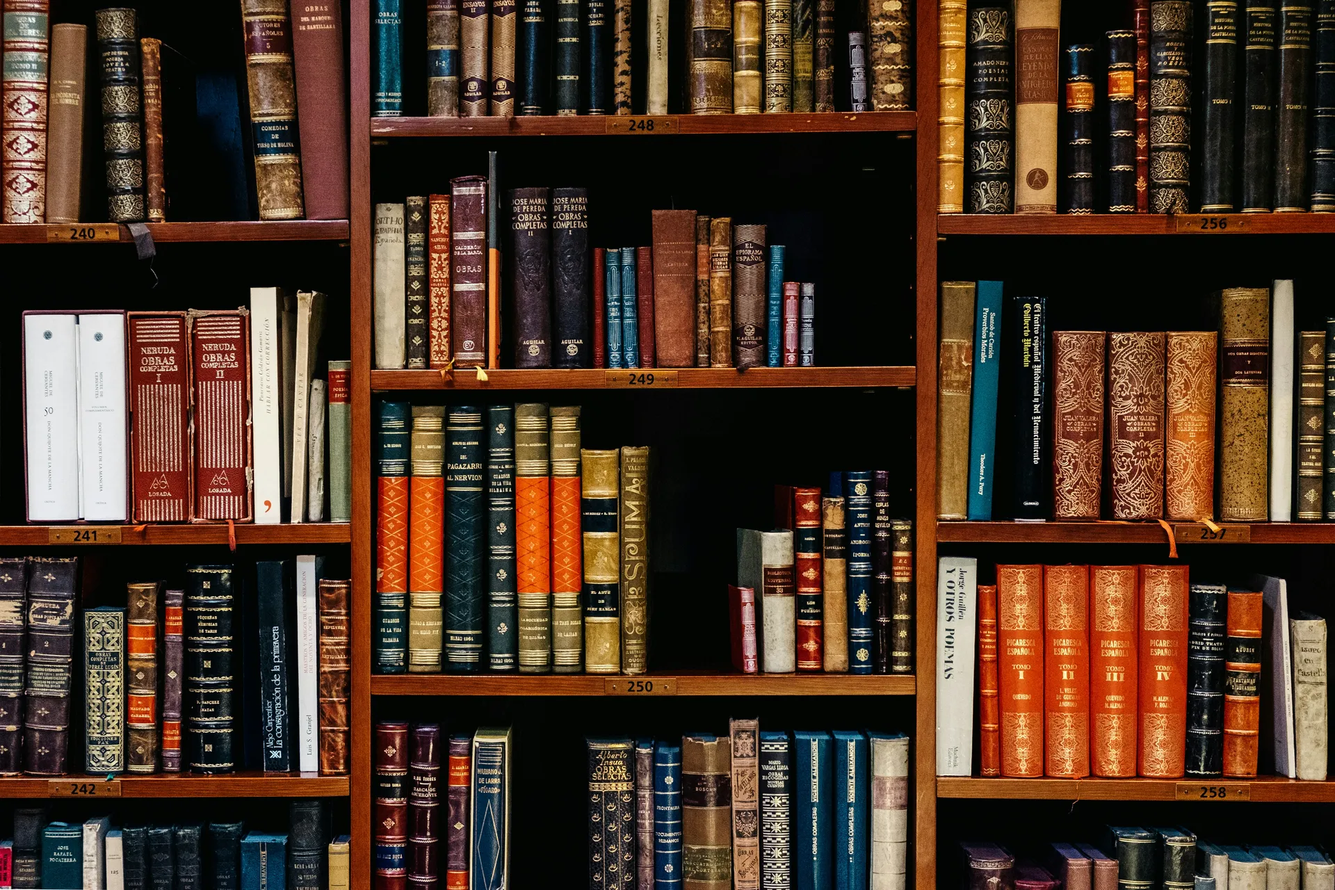
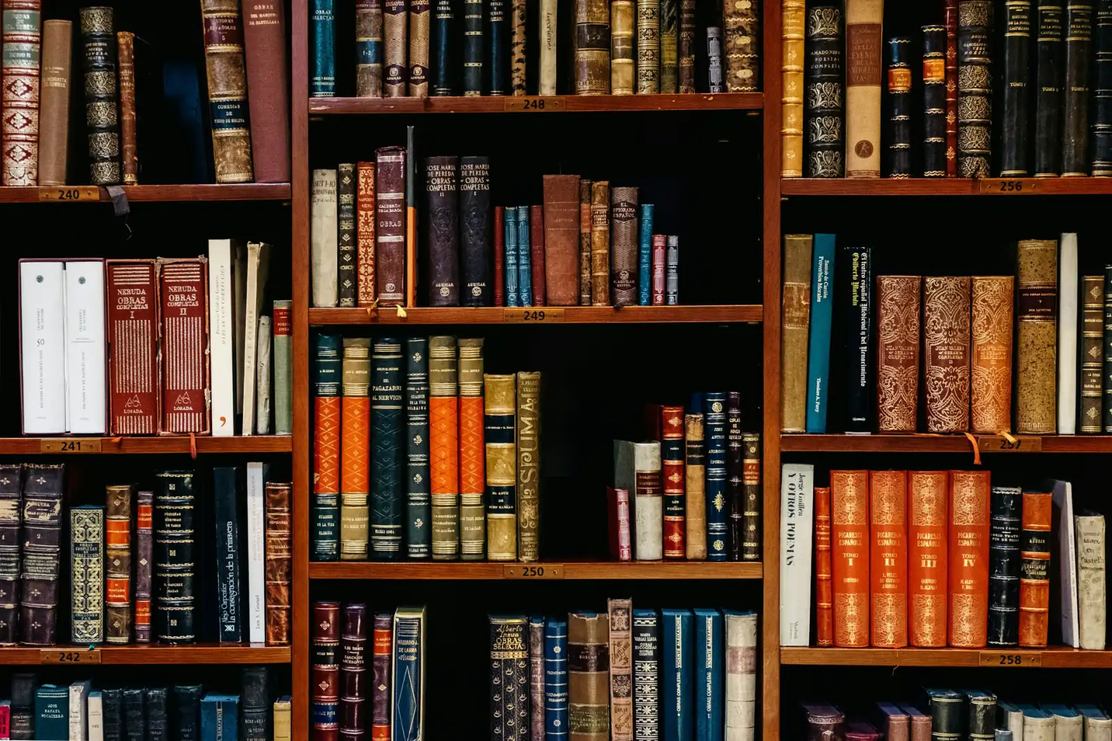
perf: optimalizácia PageSpeed bez vizuálnej zmeny (LCP, render-blocking, a11y)
- hero-bg.webp 472kB -> 172kB (1600px, q55); preload + fetchPriority=high + decoding=async
- logo 108kB -> 29kB (640px, pomer zachovaný); width/height doplnené
- justitia loading=lazy; width/height na všetkých <img>
- fonty: Tenor Sans cez next/font, odstránený render-blocking Google Fonts @import (Cormorant bol duplicitný)
- a11y: aria-label pre role=dialog (mobilné menu + drawer služieb)
- upratané nepoužívané assety: logo.png, hero-bg.jpg, logo-dark.png, logo_PM.png

diff --git a/app/layout.tsx b/app/layout.tsx
@@ -1,5 +1,5 @@
 import type { Metadata, Viewport } from "next";
-import { Cormorant_Garamond, Inter } from "next/font/google";
+import { Cormorant_Garamond, Inter, Tenor_Sans } from "next/font/google";
 import "./globals.css";
 
 const cormorant = Cormorant_Garamond({
@@ -14,6 +14,14 @@ const inter = Inter({
   weight: ["400", "500", "600"],
   subsets: ["latin"],
   variable: "--font-inter",
+  display: "swap",
+});
+
+// Tenor Sans (UI font) self-hosted cez next/font — bez render-blocking Google Fonts @importu
+const tenor = Tenor_Sans({
+  weight: "400",
+  subsets: ["latin"],
+  variable: "--font-tenor",
   display: "swap",
 });
 
@@ -35,8 +43,12 @@ export default function RootLayout({
   children: React.ReactNode;
 }>) {
   return (
-    <html lang="sk" className={`${cormorant.variable} ${inter.variable}`}>
-      <body>{children}</body>
+    <html lang="sk" className={`${cormorant.variable} ${inter.variable} ${tenor.variable}`}>
+      <body>
+        {/* Preload LCP obrázka (hero pozadie) — rýchlejšie vykreslenie */}
+        <link rel="preload" as="image" href="/hero-bg.webp" type="image/webp" fetchPriority="high" />
+        {children}
+      </body>
     </html>
   );
 }

diff --git a/components/Navbar.tsx b/components/Navbar.tsx
@@ -87,6 +87,9 @@ export const Navbar = () => {
           <img
             src="/logo_peter_mukera_nove.png"
             alt="JUDr. Peter Múkera — Advokátska kancelária"
+            width={640}
+            height={136}
+            decoding="async"
             style={{ height: "48px", width: "auto", display: "block" }}
           />
         </a>
@@ -239,6 +242,7 @@ export const Navbar = () => {
           className={open ? "menu-overlay menu-open" : "menu-overlay"}
           role="dialog"
           aria-modal={true}
+          aria-label={t.nav.navAria}
           aria-hidden={!open}
           style={{
             position: "fixed",

diff --git a/app/globals.css b/app/globals.css
@@ -1,4 +1,3 @@
-@import url('https://fonts.googleapis.com/css2?family=Cormorant:ital,wght@0,300;0,400;1,300;1,400&family=Tenor+Sans&display=swap');
 @import "tailwindcss";
 
 :root {
@@ -10,7 +9,7 @@
   --color-muted: #6B7280;
   --font-heading: var(--font-cormorant), 'Cormorant', serif;
   --font-body: var(--font-inter), 'Inter', sans-serif;
-  --font-ui: 'Tenor Sans', sans-serif;
+  --font-ui: var(--font-tenor), 'Tenor Sans', sans-serif;
 }
 
 html {

diff --git a/components/About.tsx b/components/About.tsx
@@ -92,6 +92,10 @@ export const About = () => {
           <img
             src="/justitia.webp"
             alt="Justitia"
+            width={1200}
+            height={1800}
+            loading="lazy"
+            decoding="async"
             className="object-cover object-top lg:object-right"
             style={{
               position: "absolute",

diff --git a/components/Hero.tsx b/components/Hero.tsx
@@ -91,6 +91,10 @@ export const Hero = () => {
       <img
         src="/hero-bg.webp"
         alt=""
+        width={1600}
+        height={1067}
+        fetchPriority="high"
+        decoding="async"
         style={{ position: "absolute", inset: 0, width: "100%", height: "100%", objectFit: "cover", objectPosition: "center", opacity: 0.4 }}
       />
 

diff --git a/components/Services.tsx b/components/Services.tsx
@@ -117,7 +117,7 @@ const Drawer = ({
       <div
         role="dialog"
         aria-modal="true"
-        aria-label={service?.title}
+        aria-label={service?.title ?? t.services.badge}
         style={{
           position: "fixed",
           top: 0,
